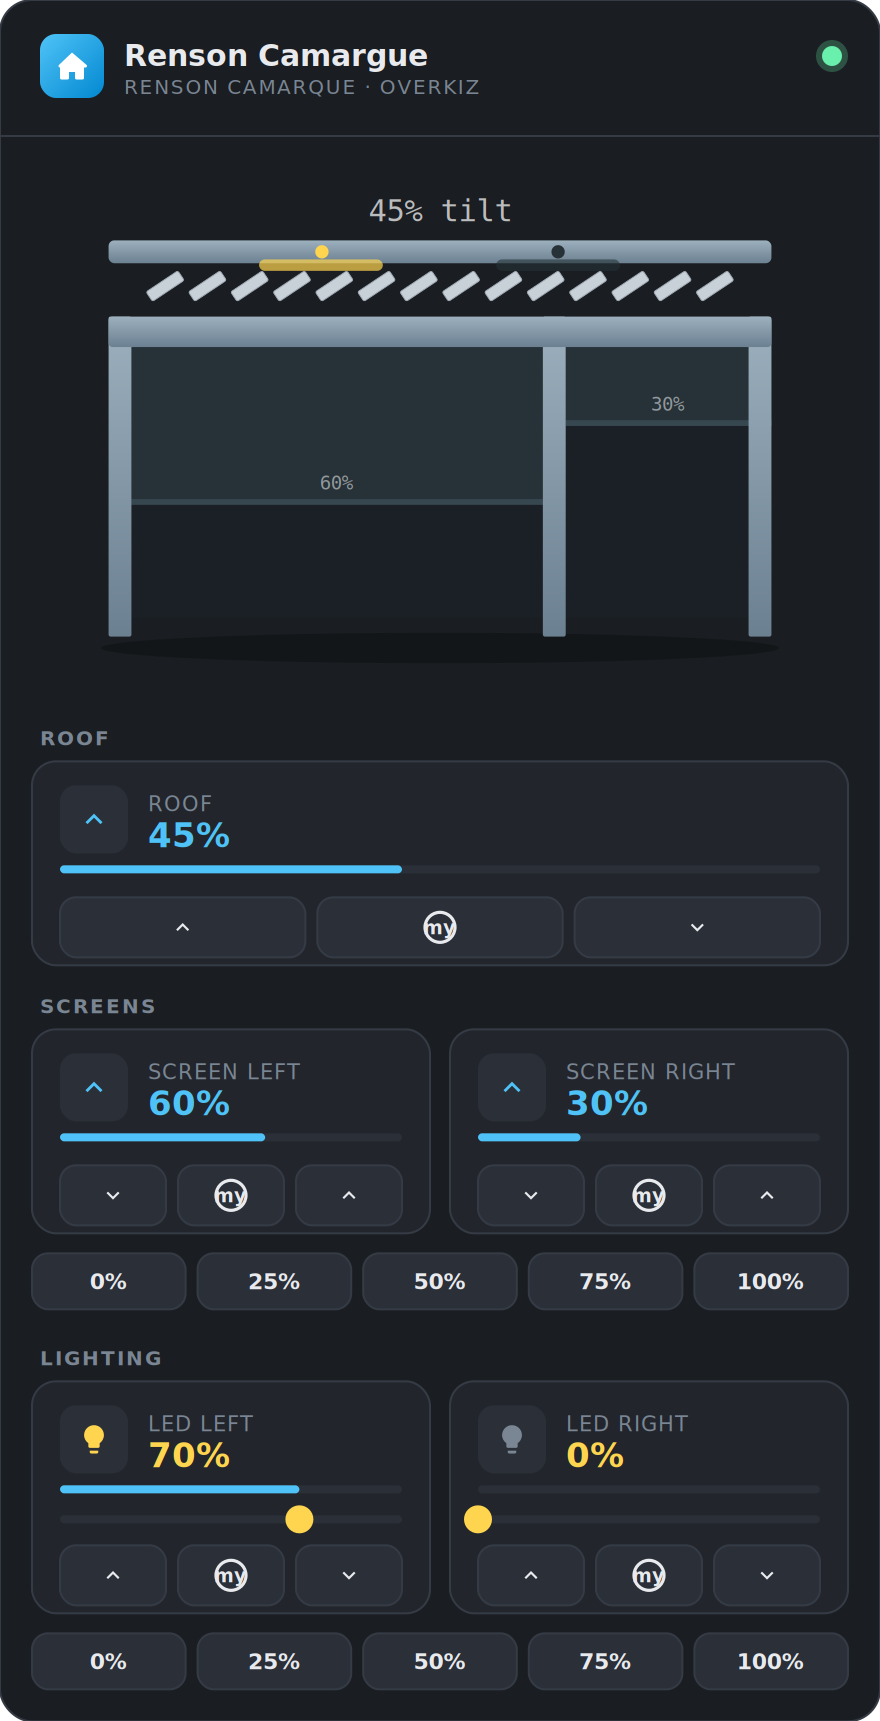
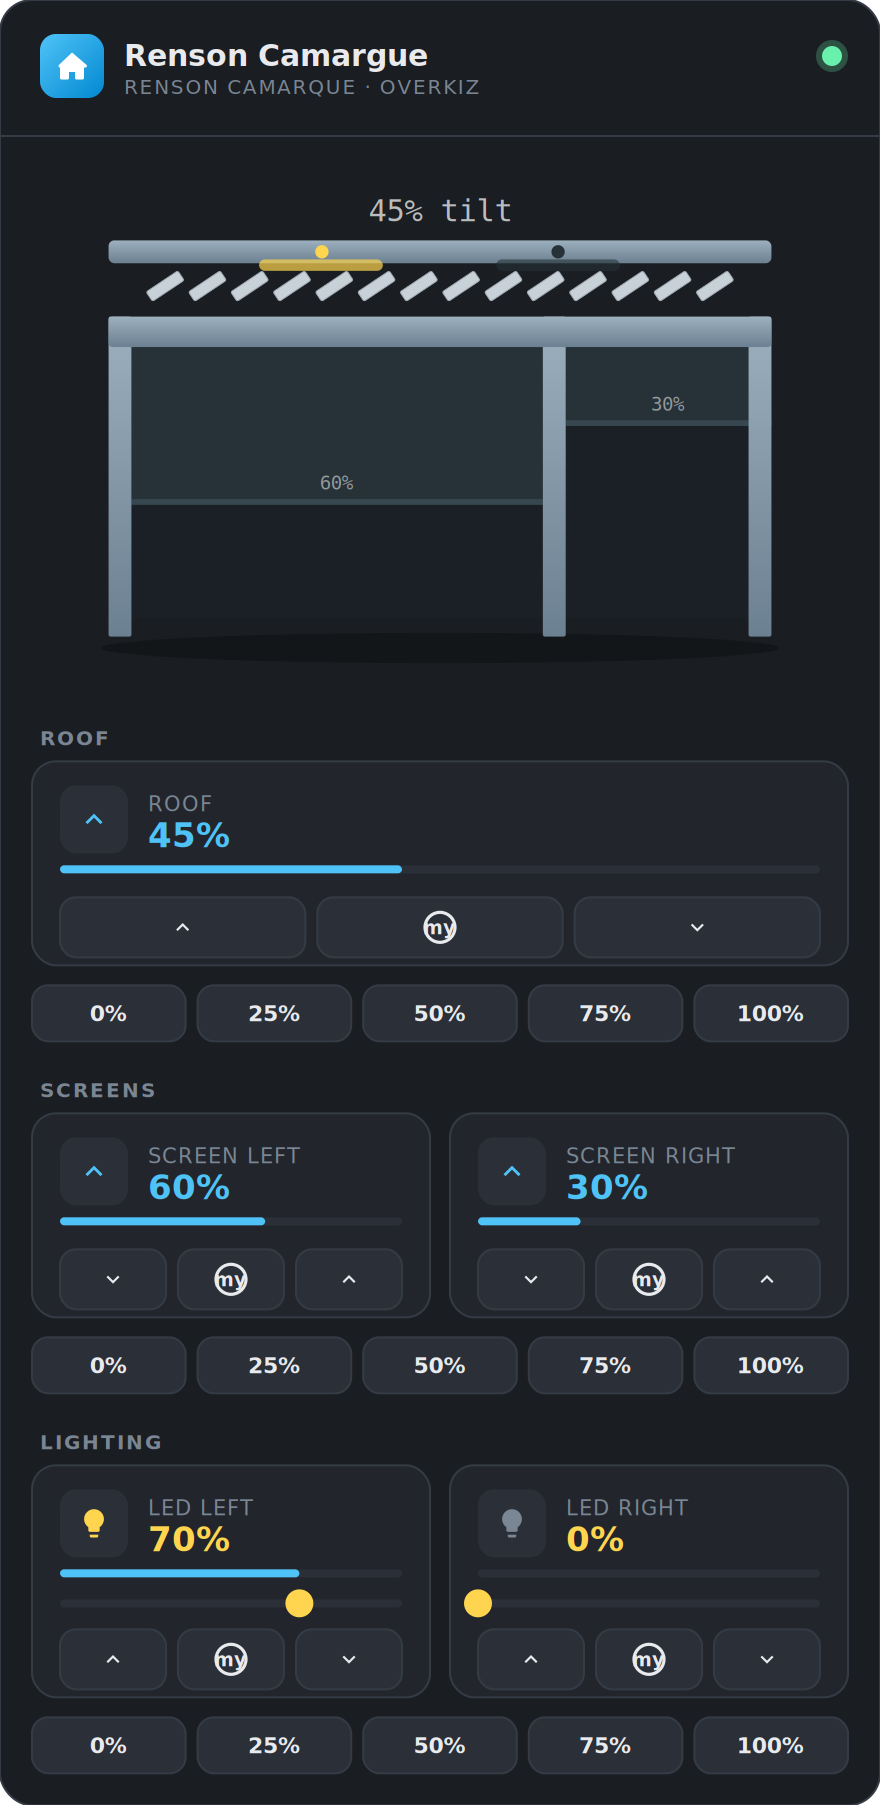
Can you add also a quickset 0%-25%-50%-75%-100% for the roof and update documentation ?

diff --git a/renson-pergola-card.js b/renson-pergola-card.js
@@ -4,10 +4,10 @@
  * via the OverKiz integration.
  *
  * GitHub: https://github.com/AndriesMuylaert/Outdoor-living
- * Version: 1.2.0
+ * Version: 1.3.0
  */
 
-const CARD_VERSION = '1.2.0';
+const CARD_VERSION = '1.3.0';
 
 // Tilt % → visual open angle (0 = closed/flat, 100 = fully open/vertical)
 function tiltToAngle(pct) {
@@ -577,6 +577,14 @@ class RensonPergolaCard extends HTMLElement {
             </div>
           </div>
 
+          <div class="quick-set-row" data-target="roof">
+            <button title="Roof to 0%" class="quick-btn" data-pct="0">0%</button>
+            <button title="Roof to 25%" class="quick-btn" data-pct="25">25%</button>
+            <button title="Roof to 50%" class="quick-btn" data-pct="50">50%</button>
+            <button title="Roof to 75%" class="quick-btn" data-pct="75">75%</button>
+            <button title="Roof to 100%" class="quick-btn" data-pct="100">100%</button>
+          </div>
+
           <div class="section-label" style="margin-top:4px">Screens</div>
 
           <div class="two-column-grid">
@@ -888,7 +896,13 @@ class RensonPergolaCard extends HTMLElement {
       this._callService('number', 'set_value', cfg.led_right_slider, { value: parseFloat(e.target.value) });
     });
 
-    // Quick-set rows – set both screens / both lights at once
+    // Quick-set rows – set roof / both screens / both lights in one tap
+    sr.querySelectorAll('.quick-set-row[data-target="roof"] .quick-btn').forEach((btn) => {
+      btn.addEventListener('click', () => {
+        this._setRoof(parseInt(btn.dataset.pct, 10));
+      });
+    });
+
     sr.querySelectorAll('.quick-set-row[data-target="screens"] .quick-btn').forEach((btn) => {
       btn.addEventListener('click', () => {
         this._setBothScreens(parseInt(btn.dataset.pct, 10));
@@ -900,6 +914,12 @@ class RensonPergolaCard extends HTMLElement {
         this._setBothLeds(parseInt(btn.dataset.pct, 10));
       });
     });
+  }
+
+  // Set the roof tilt to a specific position in one tap
+  _setRoof(pct) {
+    const cfg = this._config;
+    this._callService('cover', 'set_cover_tilt_position', cfg.roof_cover, { tilt_position: pct });
   }
 
   // Set both screens (left & right) to the same position in one tap

diff --git a/README.md b/README.md
@@ -12,6 +12,7 @@ A Home Assistant Lovelace custom card for the **Renson Camargue** pergola, using
 
 - **Live SVG visual** of the pergola: louvres animate based on actual tilt %, screens drop to their real position, LED panels glow when on.
 - **Roof louvres** — open tilt / My (stop) / close tilt with live % readout.
+- **Quick-set roof tilt** — one-tap buttons to set the roof tilt to 0 / 25 / 50 / 75 / 100 %.
 - **Screen left & right** — open / My (stop) / close with live % readout.
 - **Quick-set both screens** — one-tap buttons to set left & right screens together to 0 / 25 / 50 / 75 / 100 %.
 - **LED left & right** — on / My (preferred position) / off buttons, plus a position slider (`number` entity) with live readout.
@@ -23,7 +24,7 @@ A Home Assistant Lovelace custom card for the **Renson Camargue** pergola, using
 
 ![Renson Camargue Pergola Card preview](./docs/screenshot.png)
 
-> Rendered directly from this card's own layout and colors, with sample data (roof tilt 45%, screens at 60%/30%, one LED on). The card renders a simplified front-perspective SVG of the Camarque structure — louvre angle, screen drop level, and LED glow all update in real time from your actual entity states. Quick-set rows sit just below the standard buttons for both the Screens and Lighting sections.
+> Rendered directly from this card's own layout and colors, with sample data (roof tilt 45%, screens at 60%/30%, one LED on). The card renders a simplified front-perspective SVG of the Camarque structure — louvre angle, screen drop level, and LED glow all update in real time from your actual entity states. Quick-set rows sit just below the standard buttons for the Roof, Screens, and Lighting sections.
 
 ## Installation
 
@@ -90,12 +91,13 @@ OverKiz entity IDs are auto-generated from the device names you configured in th
 
 The **My** button sends the OverKiz "preferred position" stop command — works if you have a My position programmed in the Renson / Somfy app.
 
-### Quick-set (both at once)
+### Quick-set
 
-Below the individual Screens controls and below the individual LED controls, a row of five buttons (`0% / 25% / 50% / 75% / 100%`) lets you set **both** screens or **both** LEDs to the same value in a single tap:
+Below the individual Roof controls, the individual Screens controls, and the individual LED controls, a row of five buttons (`0% / 25% / 50% / 75% / 100%`) lets you jump straight to a value in a single tap:
 
 | Row | Action |
 |---|---|
+| Roof quick-set | Calls `cover.set_cover_tilt_position` with the chosen `tilt_position` on `roof_cover`. |
 | Screens quick-set | Calls `cover.set_cover_position` with the chosen `position` on `screen_left` and `screen_right` simultaneously. |
 | LEDs quick-set | At 0%, calls `light.turn_off` on `led_left` and `led_right`. Above 0%, calls `light.turn_on` on both, then `number.set_value` on `led_left_slider` and `led_right_slider` to set the level. |
 
